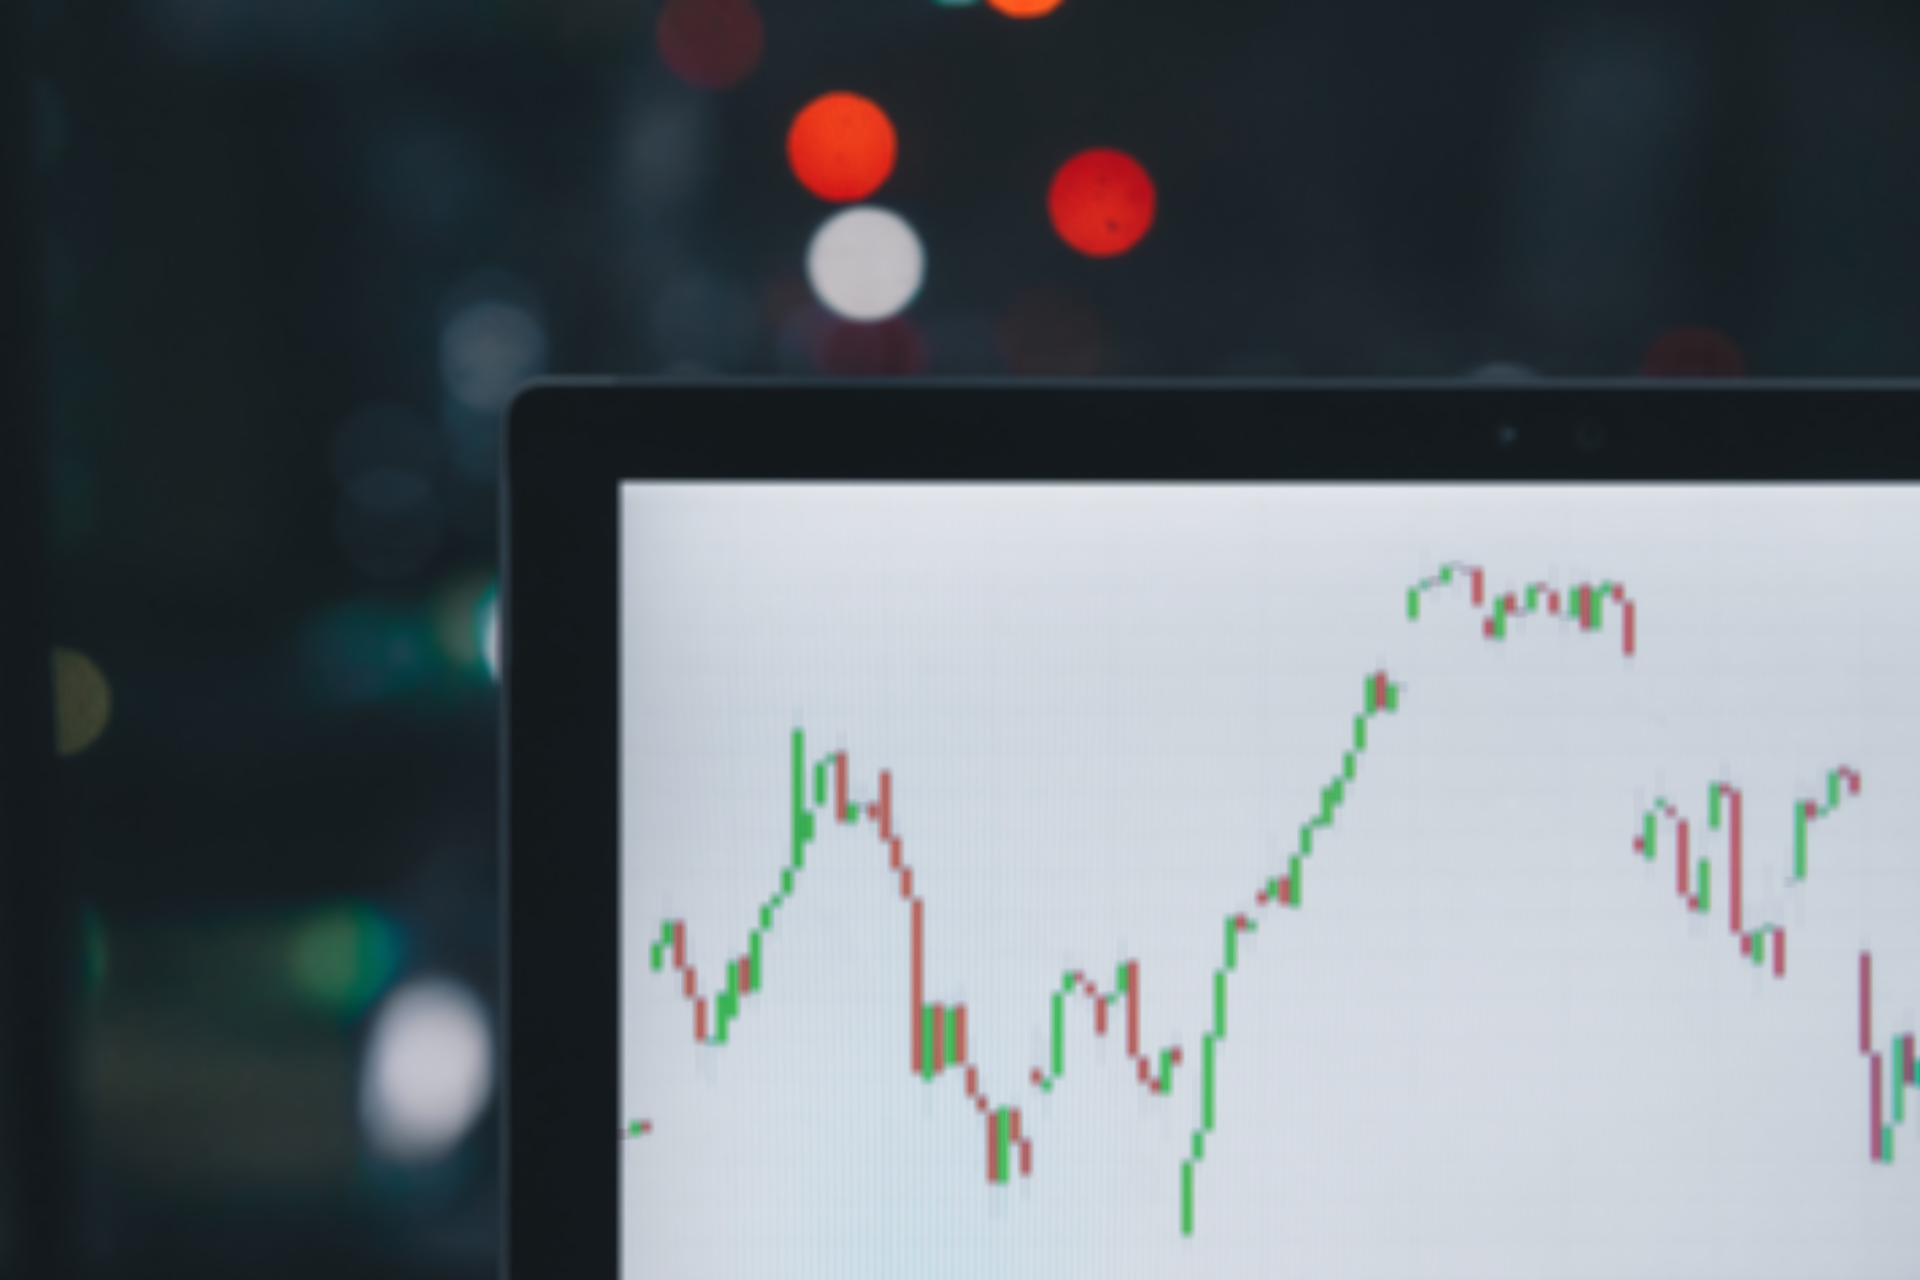
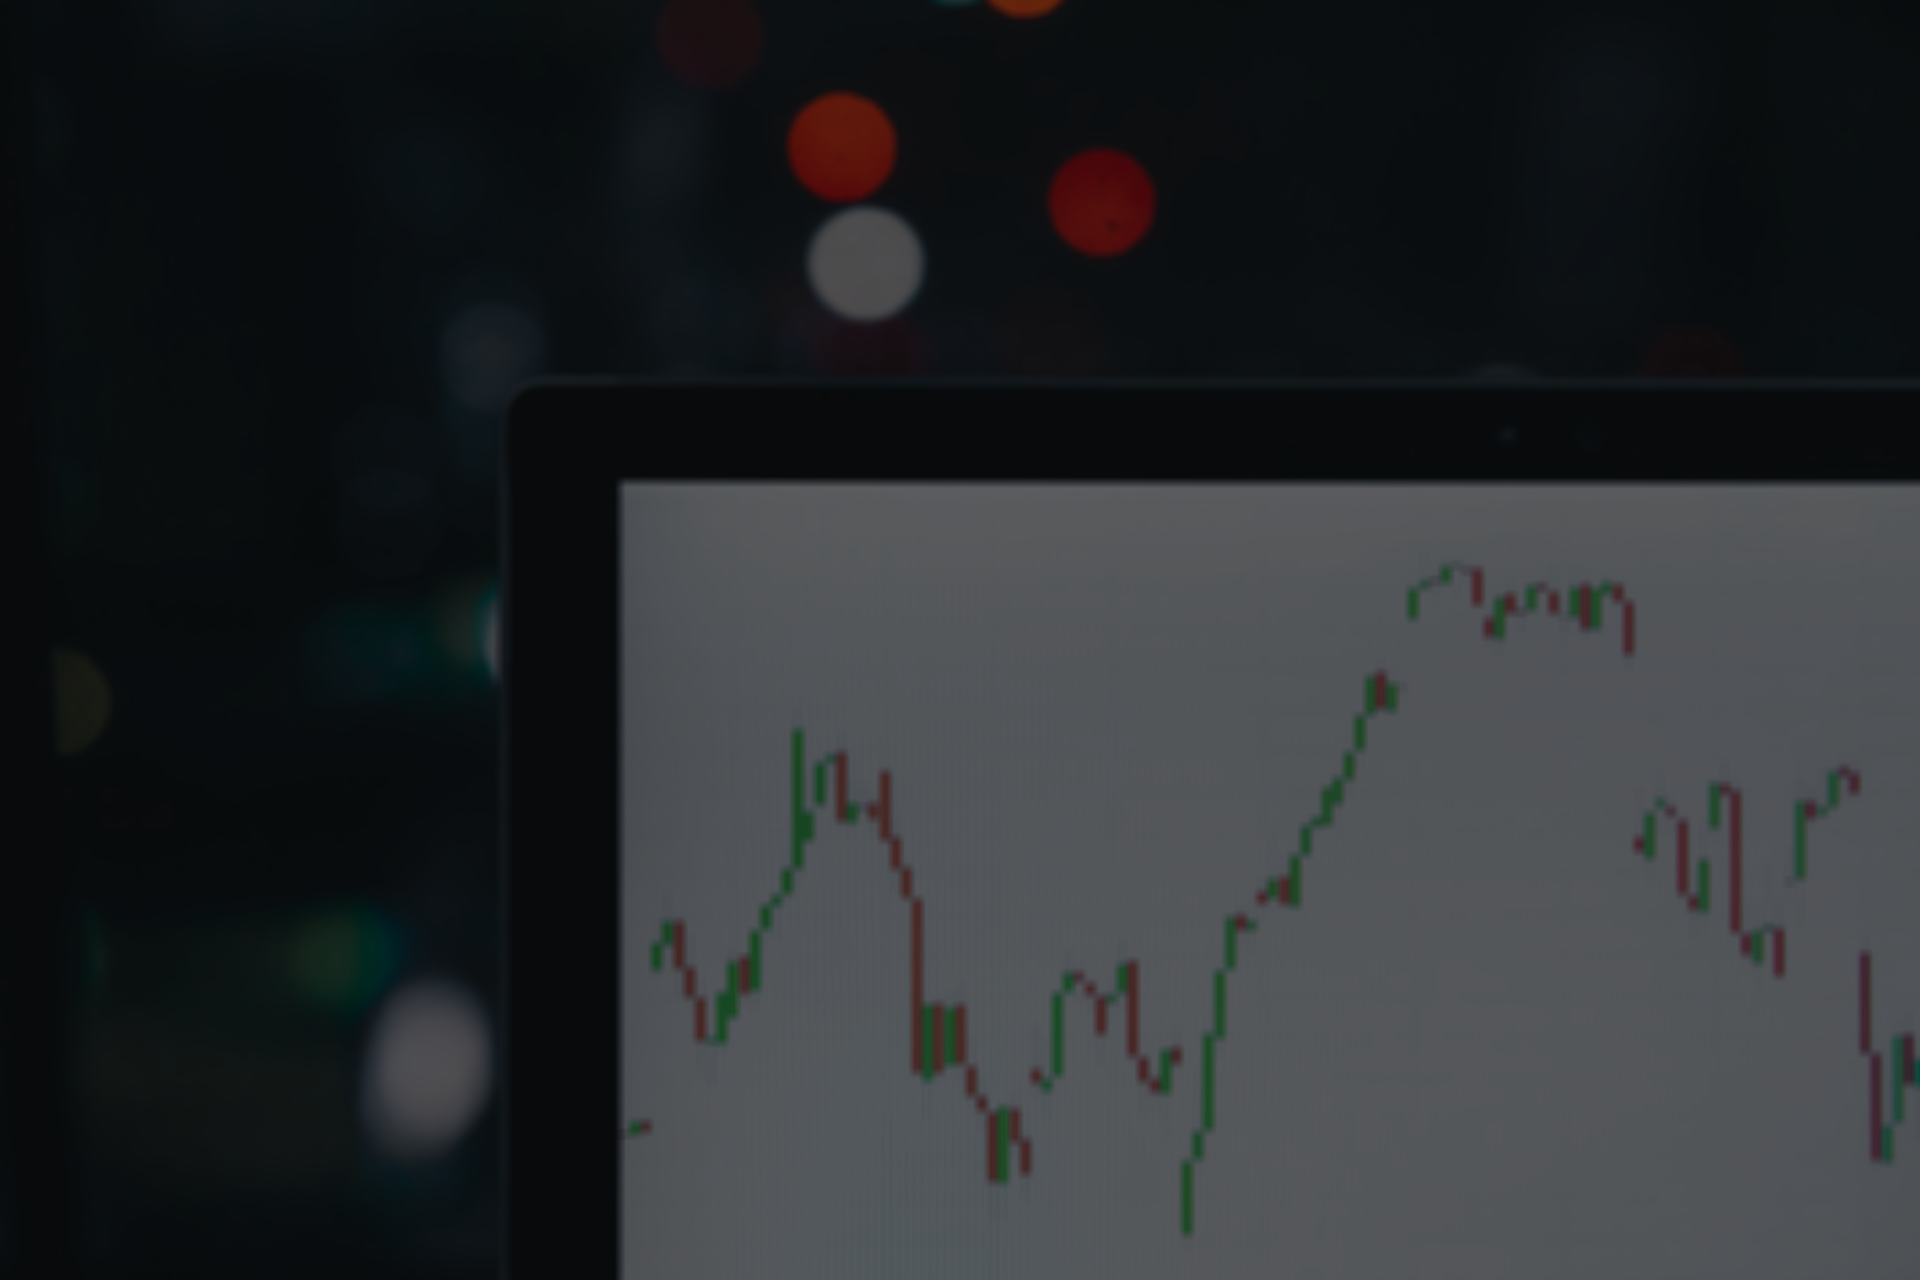
adicionei um novo estilo no area do titulo

diff --git a/style.css b/style.css
@@ -1,10 +1,28 @@
 body {
+  padding: 0;
+  margin: 0;
   text-align: center;
-  background: url(img/bakground.svg) center fixed no-repeat;
+  background: rgba(0, 0, 0, 0.651);
+  background: url(img/bakground.webp) center fixed no-repeat;
   background-size: 100%;
   font-size: 25px;
   /*<002>*/
   font-family: Arial, Helvetica, sans-serif; /* <003> */
+}
+
+section.title {
+  display: flex;
+
+  justify-content: center;
+  align-items: center;
+
+  width: 100%;
+  height: 100vh;
+
+  font-size: 50px;
+}
+h1.main-title {
+  color: #fff;
 }
 
 #Global {

diff --git a/index.html b/index.html
@@ -8,7 +8,9 @@
   </head>
   <body>
     <!--<001>-->
-    <h1>Contas A Pagar</h1>
+    <section class="title">
+      <h1 class="main-title">Contas A Pagar</h1>
+    </section>
 
     <div id="Global">
       <section id="pagar">
